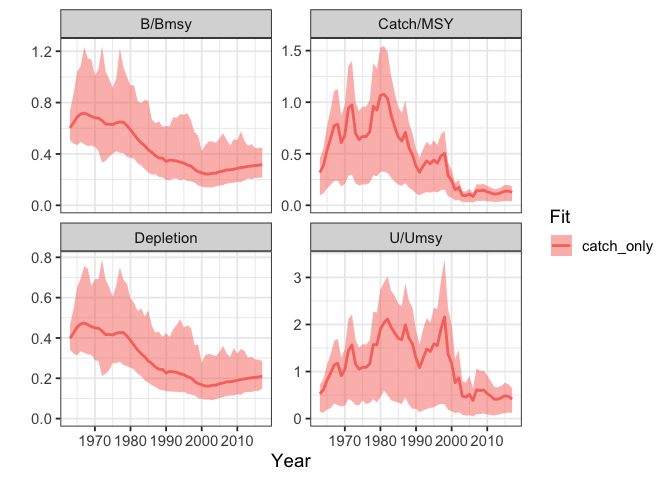
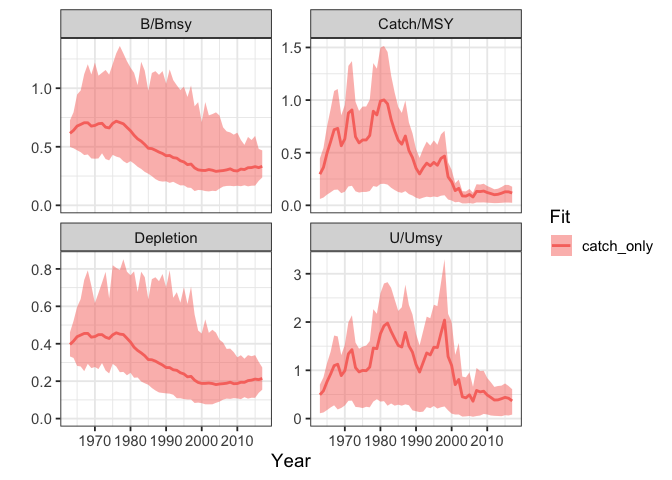
fixing lack of MSY estimates when engine = "TMB"

diff --git a/src/TMB/sraplus_tmb.hpp b/src/TMB/sraplus_tmb.hpp
@@ -681,7 +681,7 @@ Type sraplus_tmb(objective_function<Type>* obj){
   
   ADREPORT(m);
   
-  REPORT(msy);
+  ADREPORT(msy);
   
   ADREPORT(umsy);
   

diff --git a/README.md b/README.md
@@ -47,7 +47,7 @@ Make sure you try the install with a fresh R session (go to
 If you run into an error, first off try updating your R packages. From
 there….
 
-If your version of R is lower than 3.5, you might want to consider
+If your version of R is lower than 4.0, you might want to consider
 updating R itself. Updating from 3.51 to 3.52 shouldn’t be any hassle.
 BIG WARNING THOUGH, updating from say R 3.1 to 3.5 is a major update,
 and you’ll lose all your installed packages in the process. I recommend
@@ -205,14 +205,14 @@ Let’s take a quick look at the `results` object.
 
 head(catch_only_fit$results)
 #> # A tibble: 6 × 6
-#>    year variable           mean           sd        lower        upper
-#>   <dbl> <chr>             <dbl>        <dbl>        <dbl>        <dbl>
-#> 1  1963 b_div_bmsy        0.603       0.0671       0.506         0.732
-#> 2  1963 b           4901539.    4202559.     2359912.     12502963.   
-#> 3  1963 c_div_msy         0.318       0.112        0.0965        0.456
-#> 4  1963 crashed           0           0            0             0    
-#> 5  1963 depletion         0.398       0.0371       0.341         0.465
-#> 6  1963 index_hat_t  230310.     227807.       25521.       705955.
+#>    year variable           mean           sd        lower       upper
+#>   <dbl> <chr>             <dbl>        <dbl>        <dbl>       <dbl>
+#> 1  1963 b_div_bmsy        0.615       0.113        0.499        0.726
+#> 2  1963 b           5219224.    5406781.     1951895.     9795225.   
+#> 3  1963 c_div_msy         0.295       0.111        0.0604       0.447
+#> 4  1963 crashed           0           0            0            0    
+#> 5  1963 depletion         0.396       0.0429       0.332        0.461
+#> 6  1963 index_hat_t  255133.     279435.       26352.      752854.
 ```
 
 `results` is organized as a dataframe tracking different variables over
@@ -227,13 +227,13 @@ object is the output of the SIR algorithm.
 
 ``` r
 head(catch_only_fit$fit)
-#>   variable year draw   value draw_id
-#> 1      b_t 1963    1 3601506   99624
-#> 2      b_t 1964    1 3695928   99624
-#> 3      b_t 1965    1 3775263   99624
-#> 4      b_t 1966    1 3776927   99624
-#> 5      b_t 1967    1 3834834   99624
-#> 6      b_t 1968    1 3805887   99624
+#>   variable year draw    value draw_id
+#> 1      b_t 1963    1  6841904   37065
+#> 2      b_t 1964    1  8849197   37065
+#> 3      b_t 1965    1  8265235   37065
+#> 4      b_t 1966    1  9950598   37065
+#> 5      b_t 1967    1  9658066   37065
+#> 6      b_t 1968    1 11518129   37065
 ```
 
 From there, we can generate some standard plots of B/Bmsy (b_div_bmsy),
@@ -335,7 +335,7 @@ sraplus::diagnose_sraplus(fit = fmi_sar_fit, driors = fmi_sar_driors )
 #> [1] "fishlife matched supplied species"
 #> 
 #> $distinct_sir_draws
-#> [1] 2029
+#> [1] 2011
 #> 
 #> $sir_convergence_plot
 ```
@@ -665,6 +665,7 @@ knitr::kable(summarize_sralpus(cpue_sar_proc_fit, output = "table"), digits = 2)
 | index_hat_t     |  65.69 |  3.33 |  60.37 |  71.01 |   25 |
 | r               |   0.34 |  0.05 |   0.26 |   0.43 |    1 |
 | m               |   1.01 |  0.00 |   1.01 |   1.01 |    1 |
+| msy             |  83.53 | 10.29 |  67.09 |  99.98 |    1 |
 | umsy            |   0.34 |  0.05 |   0.25 |   0.42 |    1 |
 | k               | 669.02 | 85.21 | 532.84 | 805.19 |    1 |
 | q_t             |   0.01 |  0.00 |   0.00 |   0.01 |   25 |
